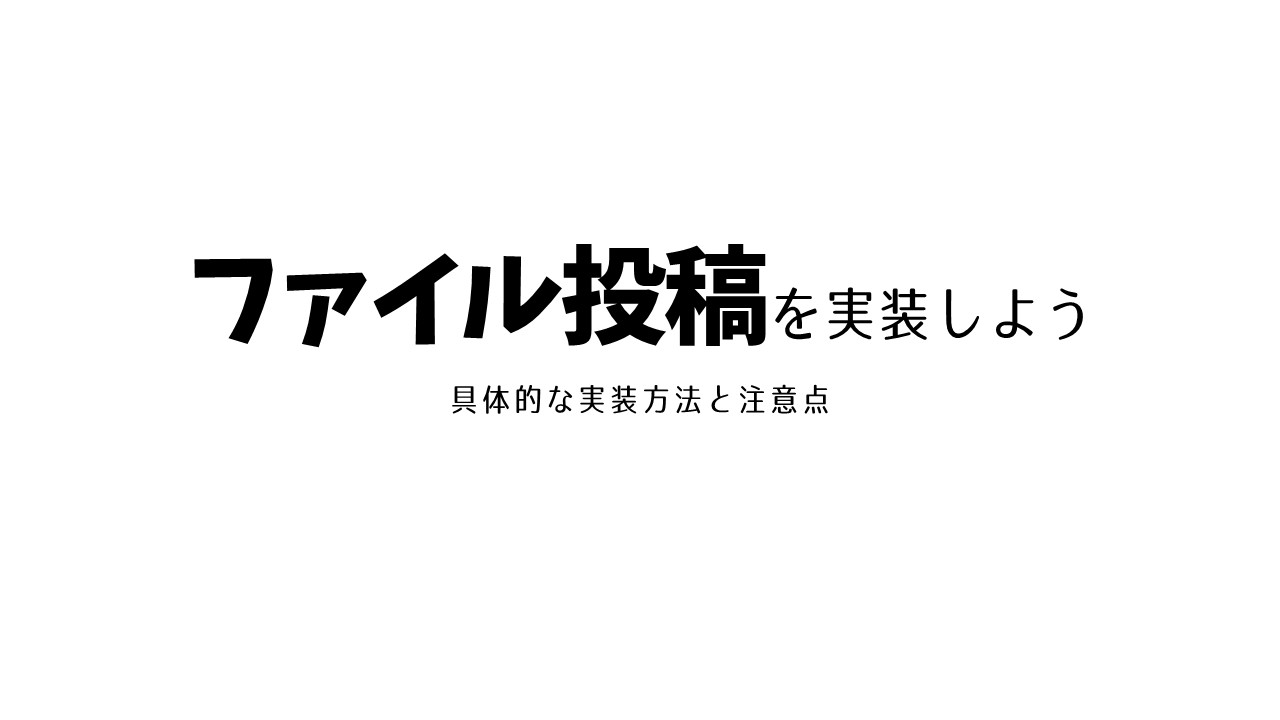
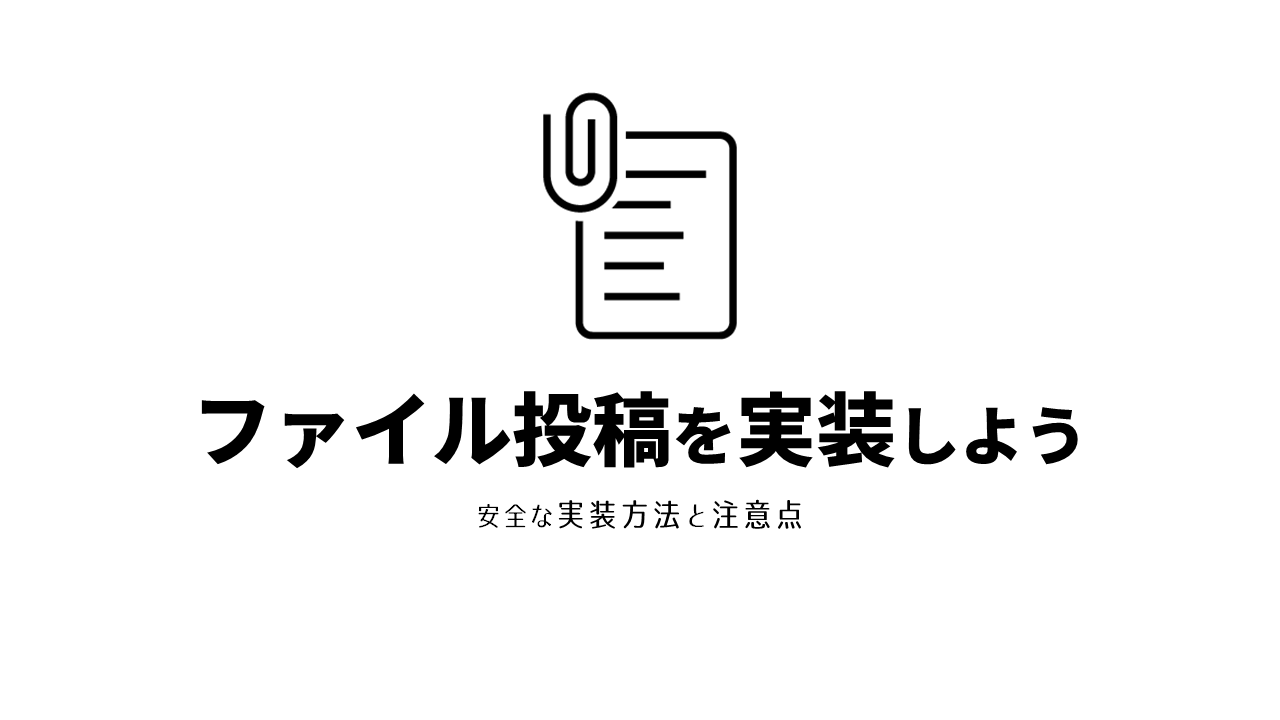
change keys

diff --git a/gmail.php b/gmail.php
@@ -9,7 +9,7 @@ function sendGmail(string $to, string $subject, string $body): void
     $client->setClientSecret($clientsecret);
 
     // 保存済みトークンを読み込む
-    $tokenData = json_decode(file_get_contents('../token_gmail.json'), true);
+    $tokenData = json_decode(file_get_contents('C:/yamatcha_env/token_gmail.json'), true);
     $client->setAccessToken($tokenData);
 
     // トークンが期限切れなら自動更新
